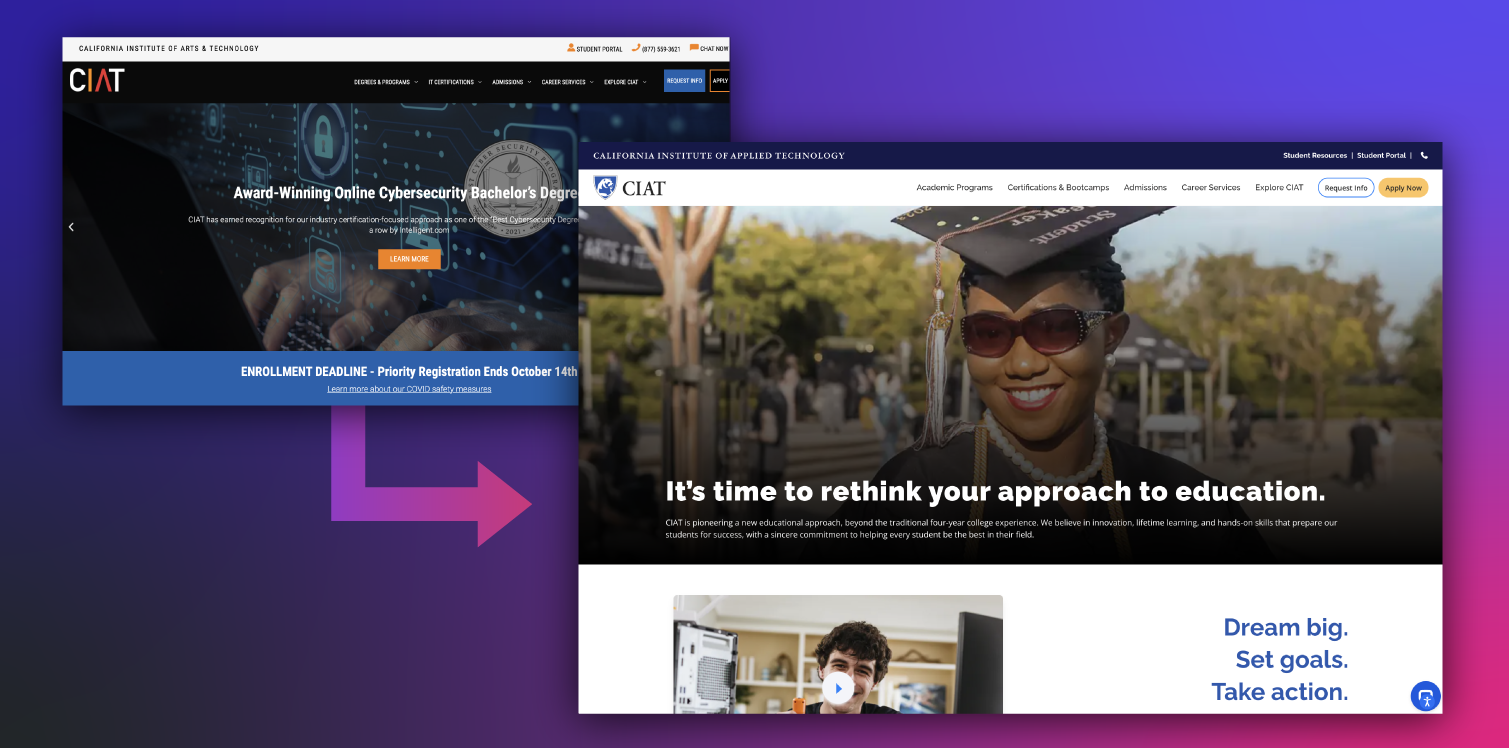
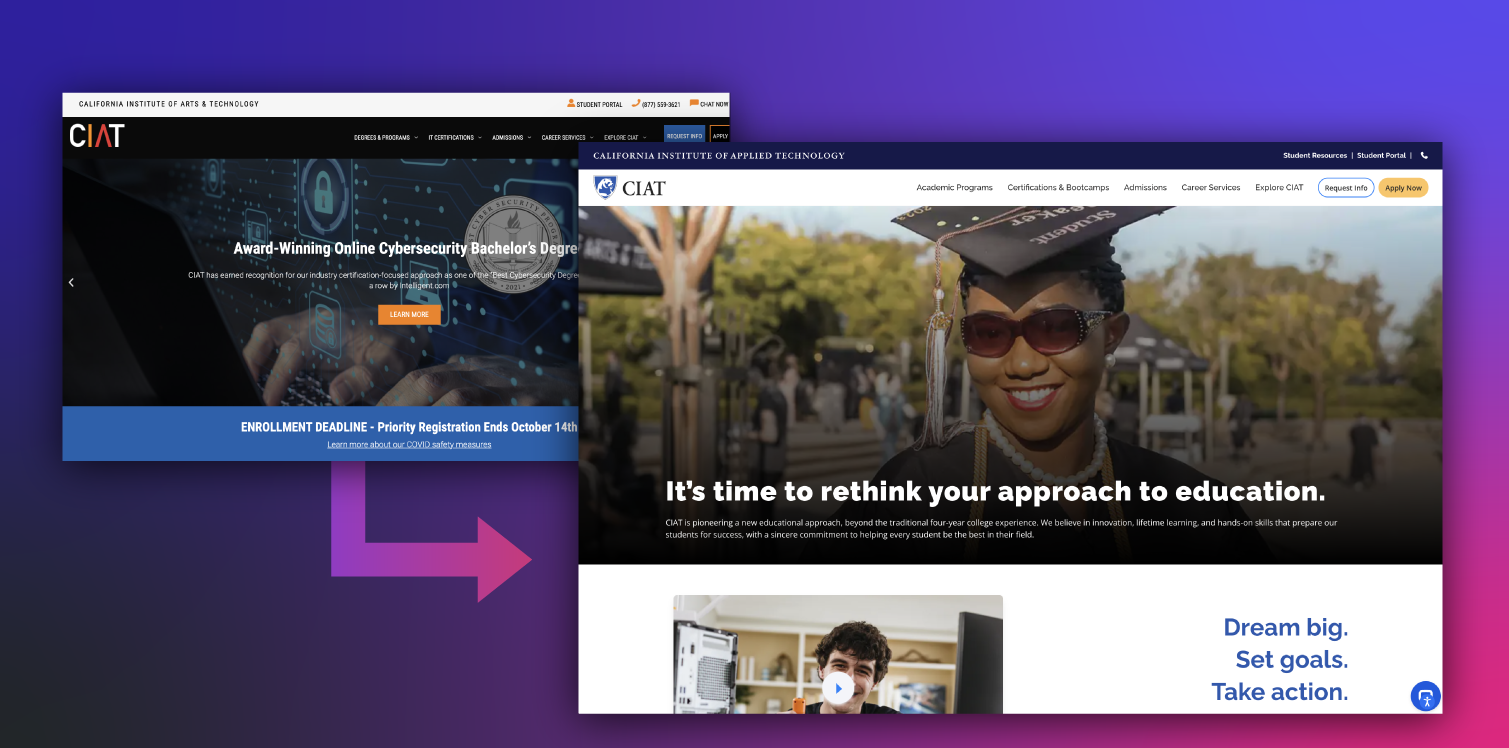
Refresh the CIAT case study card preview image.
Update the homepage card asset and cache-bust the src so the latest crop loads.

Changed region(s): [[0.0311, 0.0307, 0.4983, 0.7995]]

diff --git a/index.html b/index.html
@@ -256,7 +256,7 @@
 
             <a class="case-card" href="case-studies/mid-sized.html">
               <div class="case-card-image purple">
-                <img src="assets/ciat-case-study.png" alt="CIAT brand update" loading="lazy" />
+                <img src="assets/ciat-case-study.png?v=2" alt="CIAT brand update" loading="lazy" />
               </div>
               <div class="case-card-body">
                 <p class="case-tag purple">Mid-Sized Business</p>
